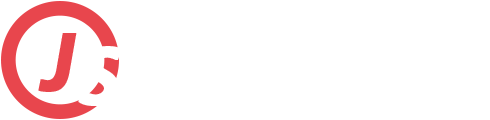
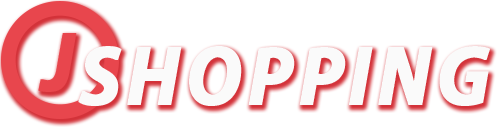
인트로 이미지 수정 ( Change Intro image )

diff --git a/src/gui/common/Intro.java b/src/gui/common/Intro.java
@@ -12,9 +12,9 @@ import system.Setup;
 
 public class Intro extends JFrame {
 	public Intro() {
-		int x = (Setup.screenSize.width / 2) - 245;
-		int y = (Setup.screenSize.height / 2) - 75;
-		setBounds(x, y	, 490, 150);
+		int x = (Setup.screenSize.width / 2) - 250;
+		int y = (Setup.screenSize.height / 2) - 65;
+		setBounds(x, y	, 500, 130);
 		setUndecorated(true);
 		setBackground(new Color(0, 0, 0 ,0));
 		
